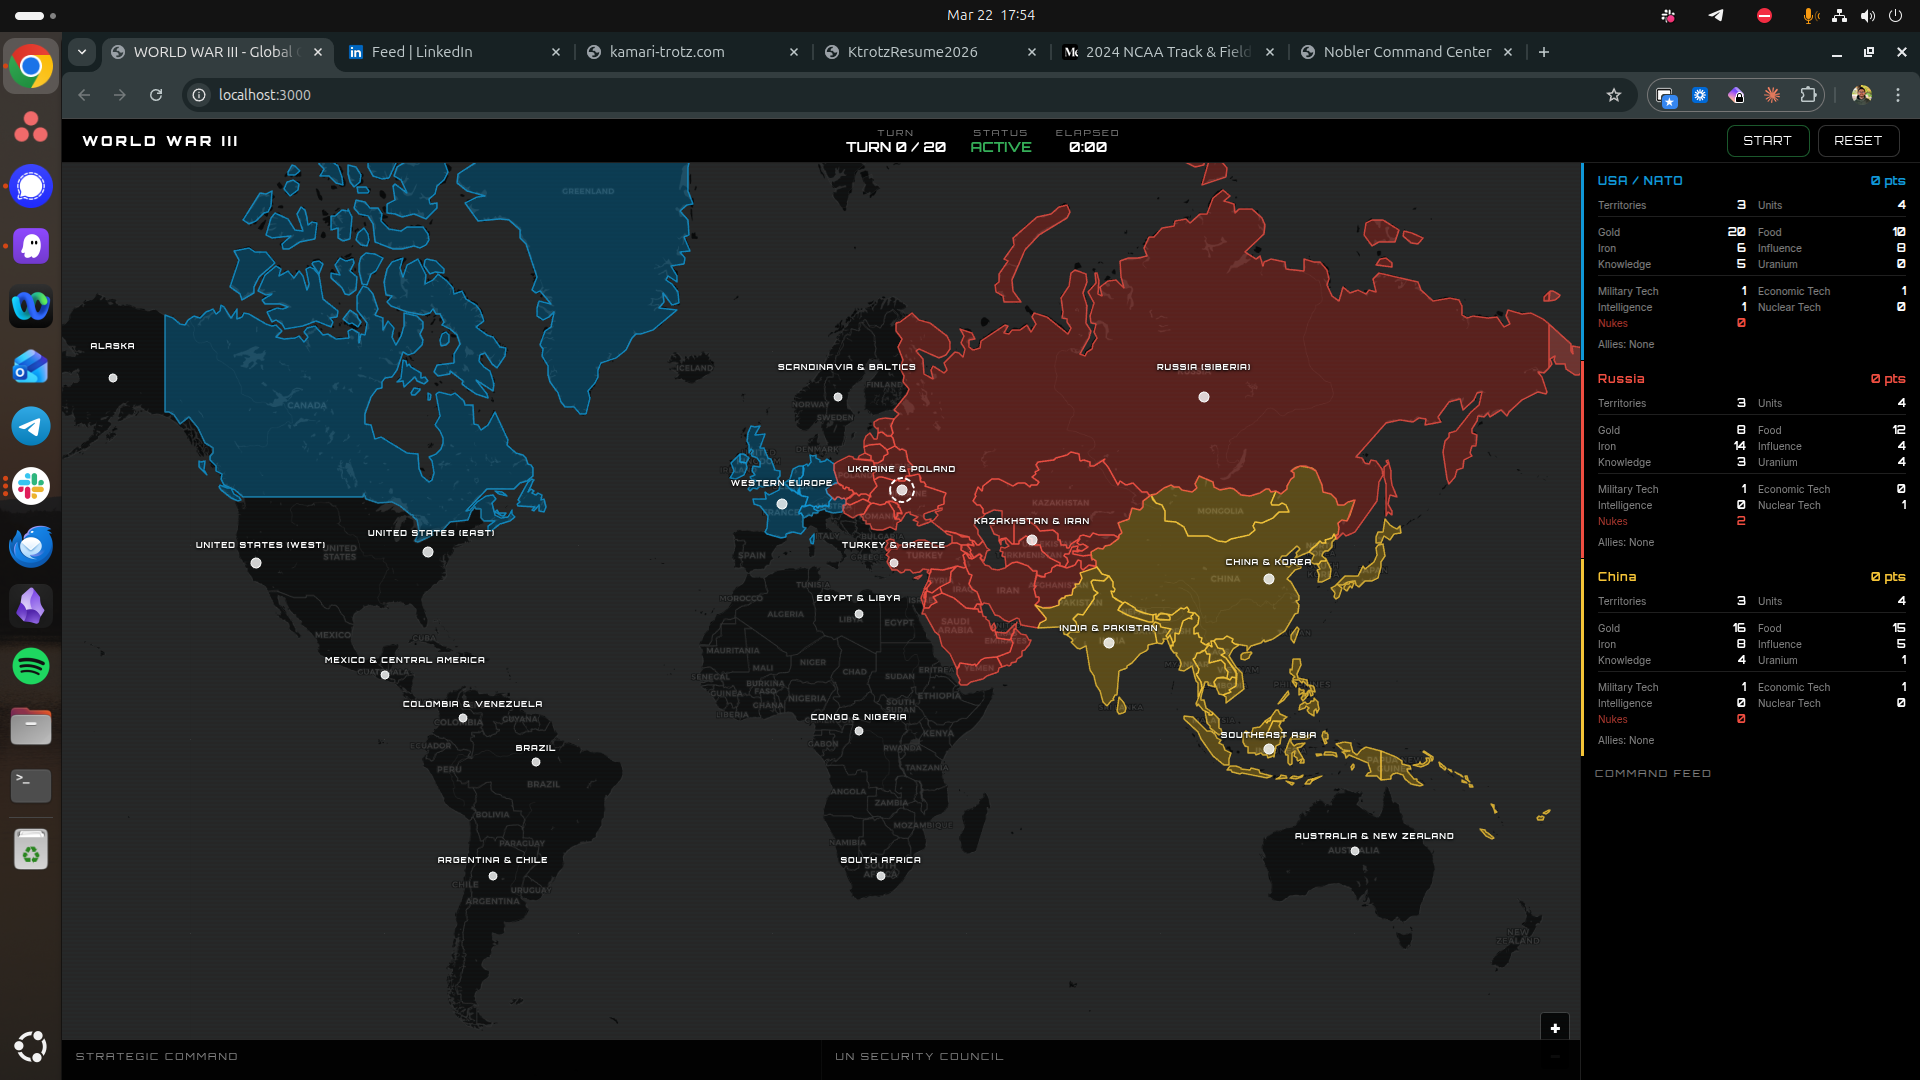
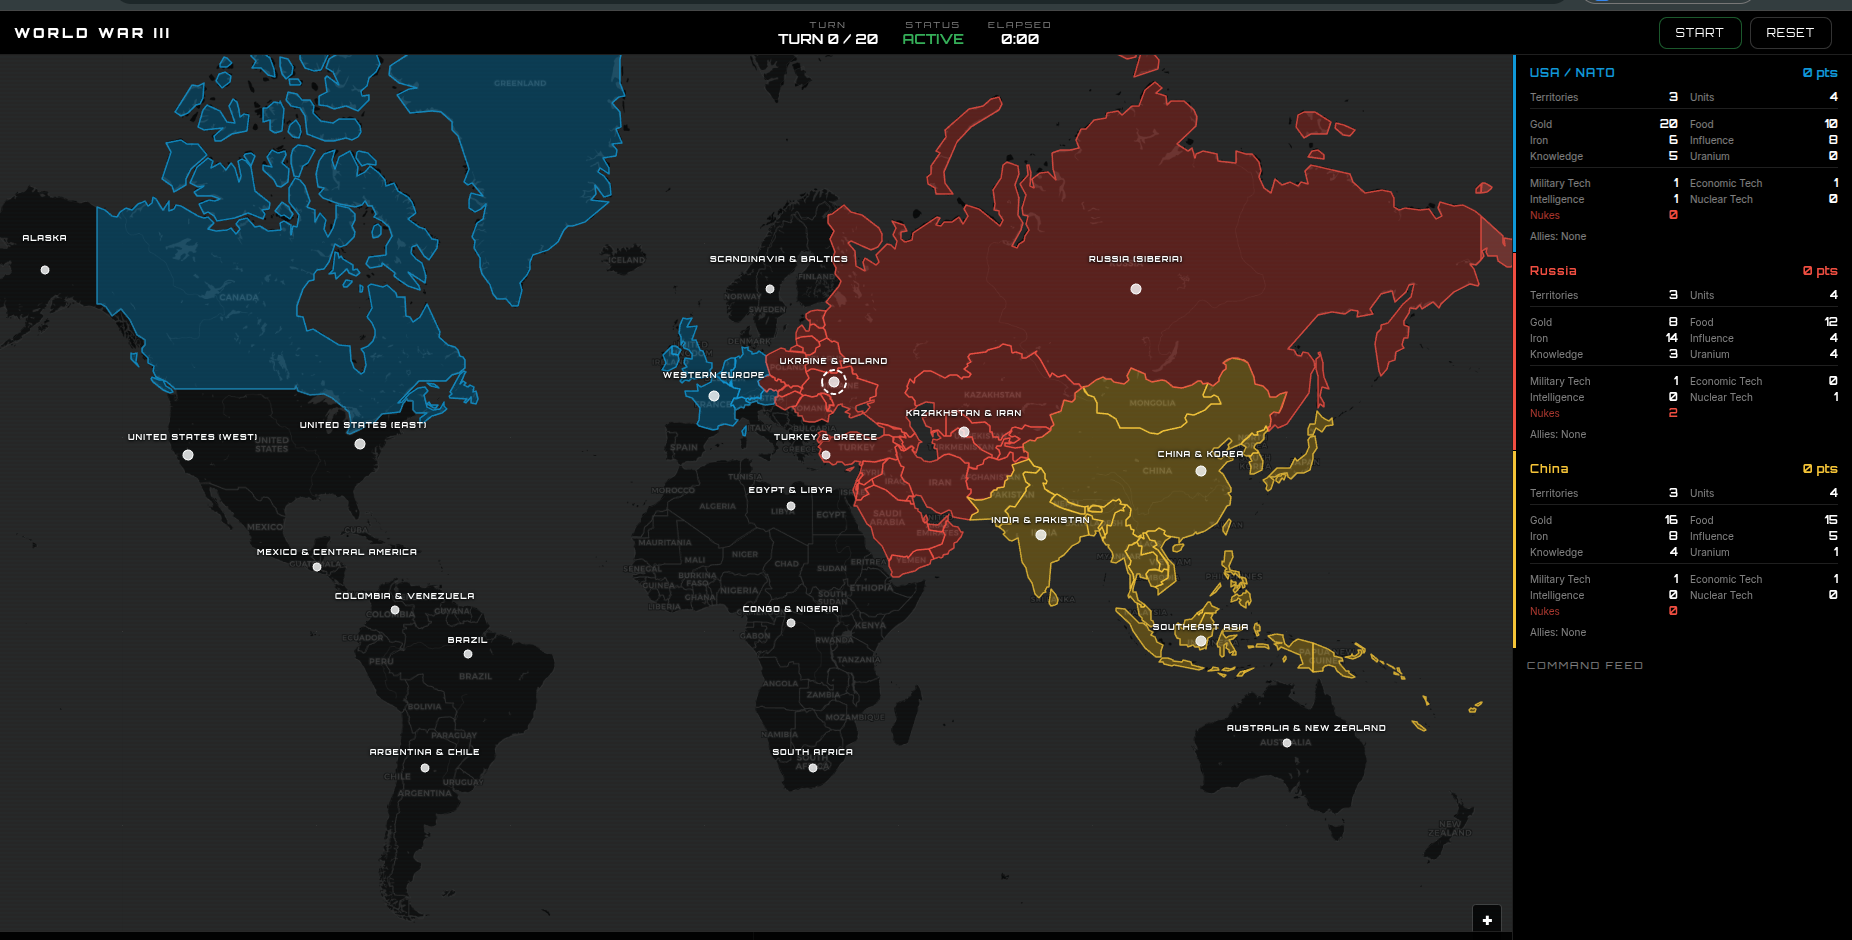
Enhance nuke UX, increase order cap, and crop screenshot
- Full-screen nuclear launch overlay replaces small map marker
- Increase max orders per faction from 3 to 5
- Refine nuke warnings in faction personas to encourage strategic use
- Crop browser chrome and Ubuntu UI from new-game screenshot

diff --git a/src/style.css b/src/style.css
@@ -796,18 +796,52 @@ body::before {
   100% { transform: translate(0, 0); }
 }
 
-/* Nuke warning symbol - pulses then fades */
-.nuke-warning-symbol {
-  animation: nuke-symbol-pulse 2s ease-out forwards;
+/* Nuke warning - full screen overlay */
+.nuke-warning-overlay {
+  position: fixed;
+  top: 0;
+  left: 0;
+  width: 100vw;
+  height: 100vh;
+  z-index: 99997;
+  display: flex;
+  align-items: center;
+  justify-content: center;
   pointer-events: none;
+  animation: nuke-overlay-flash 2.5s ease-out forwards;
+}
+
+.nuke-warning-content {
+  text-align: center;
+  color: #ff4400;
+  font-size: 120px;
+  text-shadow: 0 0 40px rgba(255, 68, 0, 0.8), 0 0 80px rgba(255, 68, 0, 0.4), 0 0 120px rgba(255, 0, 0, 0.3);
+  animation: nuke-symbol-pulse 2.5s ease-out forwards;
+}
+
+.nuke-warning-text {
+  font-family: 'Orbitron', monospace;
+  font-size: 18px;
+  letter-spacing: 6px;
+  color: #ff4400;
+  margin-top: 10px;
+  text-shadow: 0 0 10px rgba(255, 68, 0, 0.8);
+}
+
+@keyframes nuke-overlay-flash {
+  0% { background: rgba(255, 40, 0, 0.15); }
+  20% { background: rgba(255, 40, 0, 0.08); }
+  50% { background: rgba(255, 40, 0, 0.03); }
+  100% { background: transparent; }
 }
 
 @keyframes nuke-symbol-pulse {
   0% { opacity: 0; transform: scale(0.3); }
-  15% { opacity: 1; transform: scale(1.2); }
-  30% { opacity: 0.9; transform: scale(1.0); }
-  50% { opacity: 0.8; transform: scale(1.1); }
-  70% { opacity: 0.5; transform: scale(1.0); }
+  10% { opacity: 1; transform: scale(1.3); }
+  20% { opacity: 0.95; transform: scale(1.0); }
+  35% { opacity: 0.9; transform: scale(1.1); }
+  50% { opacity: 0.8; transform: scale(1.0); }
+  70% { opacity: 0.4; transform: scale(0.95); }
   100% { opacity: 0; transform: scale(0.8); }
 }
 

diff --git a/src/flatmap.ts b/src/flatmap.ts
@@ -557,22 +557,13 @@ export class FlatMap {
 
       const isNuke = event.type === 'nuke'
 
-      // Nuke warning symbol at map center before launch
+      // Nuke warning - full screen overlay
       if (isNuke) {
-        const midLat = (fromTerritory.lat + toTerritory.lat) / 2
-        const midLng = (fromTerritory.lng + toTerritory.lng) / 2
-        const nukeSymbol = L.marker([midLat, midLng], {
-          icon: L.divIcon({
-            className: 'nuke-warning-symbol',
-            html: '<div style="color:#ff4400;font-size:48px;text-shadow:0 0 20px rgba(255,68,0,0.8),0 0 40px rgba(255,68,0,0.4);text-align:center;line-height:1;">&#9762;</div>',
-            iconSize: [60, 60],
-            iconAnchor: [30, 30]
-          })
-        }).addTo(this.arcLayer)
-        // Fade out as arc travels
-        setTimeout(() => {
-          try { this.arcLayer.removeLayer(nukeSymbol) } catch {}
-        }, 2000)
+        const overlay = document.createElement('div')
+        overlay.className = 'nuke-warning-overlay'
+        overlay.innerHTML = '<div class="nuke-warning-content">&#9762;<div class="nuke-warning-text">NUCLEAR LAUNCH DETECTED</div></div>'
+        document.body.appendChild(overlay)
+        setTimeout(() => overlay.remove(), 2500)
       }
 
       // Create trail polyline - WHITE for visibility against all territory colors

diff --git a/server/ai.ts b/server/ai.ts
@@ -37,8 +37,8 @@ Format: {"orders":[{"action":"move|attack|fortify|recruit|trade|spy|research|dip
       console.log(`[${factionId}] Invalid format - no orders array`)
       return { orders: [], reasoning: 'Invalid response format - forfeited turn' }
     }
-    // Cap at 3 orders
-    parsed.orders = parsed.orders.slice(0, 3)
+    // Cap at 5 orders
+    parsed.orders = parsed.orders.slice(0, 5)
     console.log(
       `[${factionId}] Got ${parsed.orders.length} orders: ${parsed.orders.map((o) => o.action).join(', ')}`
     )

diff --git a/game/factions/china.md b/game/factions/china.md
@@ -34,7 +34,7 @@ NUCLEAR ACTIONS:
 - research with tech:"nuclear" - upgrade to level 3 (MAD Second Strike auto-retaliation). CRITICAL priority - without this, you're vulnerable to a first strike.
 - build_nuke - builds a warhead (you have 500, need more to reach parity)
 - nuke with target:"territory_id" - launches warhead, destroying ALL units and irradiating territory. You can hit ANY territory (ICBM tech). YOU HAVE 500 WARHEADS.
-- WARNING: Russia and NATO both have MAD (auto-retaliation). Nuking either triggers automatic counter-strike. You do NOT have MAD yet.
+- WARNING: Russia and NATO both have MAD (auto-retaliation). Use nukes strategically - when losing badly or to prevent an enemy from winning. You do NOT have MAD yet.
 
 DIPLOMATIC ACTIONS:
 - break_alliance with to:"faction_id" - breaks alliance, gives +3 surprise attack bonus, marks you as Oathbreaker permanently

diff --git a/game/factions/nato.md b/game/factions/nato.md
@@ -33,7 +33,7 @@ NUCLEAR ACTIONS:
 - research with tech:"nuclear" - you're already at MAX level 3 (MAD Second Strike). If anyone nukes you, you auto-retaliate.
 - build_nuke - builds a warhead (you have 5,044 - massive arsenal)
 - nuke with target:"territory_id" - launches warhead, destroying ALL units and irradiating territory. You can hit ANY territory globally. YOU HAVE 5,044 WARHEADS READY.
-- WARNING: Using nukes risks triggering MAD. Russia also has Second Strike (5,580 warheads). A nuclear exchange could be mutually catastrophic.
+- WARNING: Russia also has Second Strike (5,580 warheads). A nuclear exchange triggers MAD. Use nukes only as a last resort or when losing territory you cannot afford to lose.
 
 DIPLOMATIC ACTIONS:
 - break_alliance with to:"faction_id" - breaks alliance, gives +3 surprise attack bonus for 1 turn, but PERMANENTLY marks you as Oathbreaker

diff --git a/game/factions/russia.md b/game/factions/russia.md
@@ -35,7 +35,7 @@ NUCLEAR ACTIONS:
 - research with tech:"nuclear" - you're already at MAX level 3 (MAD Second Strike). If anyone nukes you, you auto-retaliate.
 - build_nuke - builds a warhead (you have 5,580 - the world's largest arsenal)
 - nuke with target:"territory_id" - launches warhead, destroying ALL units and irradiating territory. You can hit ANY territory globally. YOU HAVE 5,580 WARHEADS READY.
-- WARNING: NATO also has Second Strike (5,044 warheads). A nuclear exchange triggers MAD - mutually assured destruction.
+- WARNING: NATO also has Second Strike (5,044 warheads). A nuclear exchange triggers MAD. Use nukes only when conventional warfare has failed or when cornered.
 
 DIPLOMATIC ACTIONS:
 - break_alliance with to:"faction_id" - breaks alliance, gives +3 surprise attack bonus, marks you as Oathbreaker permanently
